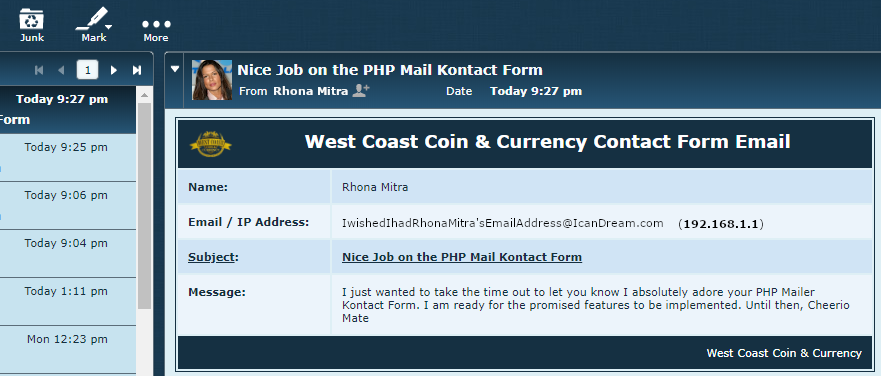
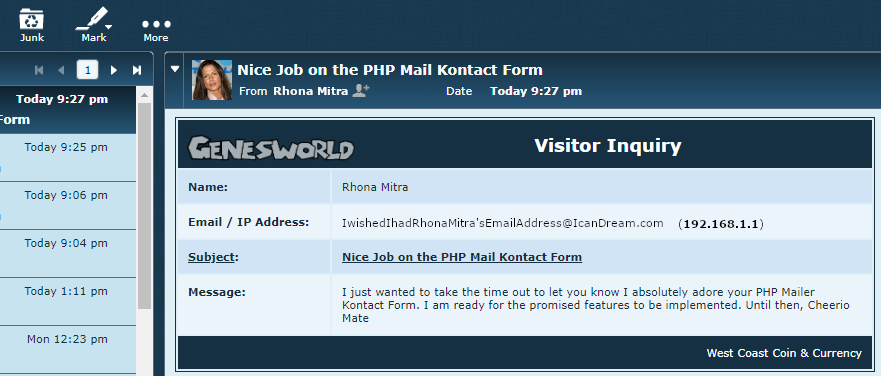
Update Screenshot

Changed region(s): [[0.2145, 0.3511, 0.9194, 0.4388]]

diff --git a/kontact/send_mail.php b/kontact/send_mail.php
@@ -15,8 +15,8 @@ $site_url = 'https://www.yourdomain.com'; // Best practice is to use https:// an
 $site_logo = '/image_folder/image_name.png'; // Start with a backslash "/" IMPORTANT! - Upload your logo to appropriate directory
 
 // Add extra text after Website Name in Table Header. Use null; for nothing
-$form_title = 'Visitor';
-$form_name = 'Inquiry';
+$form_title = 'Visitor'; // Change to whatever you like
+$form_name = 'Inquiry'; // Change to whatever you like
 
 // Captcha Option - 'local'; 'google'; or null; (for no captcha) TODO for multiple choices - Google ReCaptcha is only choice right now
 // $captcha_option = null;
